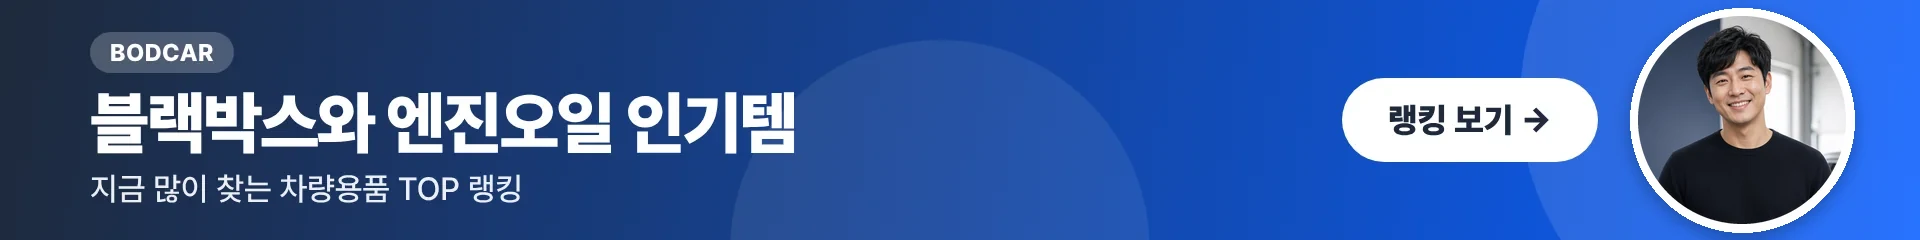
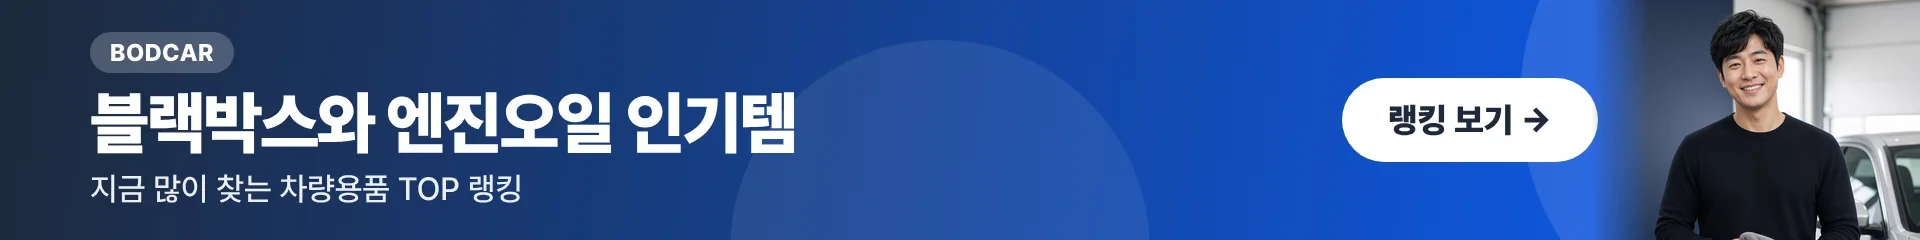
배너 인물 사진을 원형 대신 오른쪽 배경 가득 채우는 방식으로 변경
Claude-Session: https://claude.ai/code/session_01Tqq5iacobQmrq7mFMrHGay

Changed region(s): [[0.8125, 0.0, 1.0, 1.0]]

diff --git a/public/index.html b/public/index.html
@@ -22,7 +22,7 @@ window.__d = window.__p ? Promise.resolve(window.__p) : Promise.all([
 <div id="promo" role="complementary" aria-label="제휴 사이트 소개"></div>
 <script>
 (function () {
-  // 자매 사이트 배너 9개 중 하나를 무작위로 보여준다 (내 사이트 배너는 없다) — 시리얼 배너 추가 및 인물 사진 배너 교체 (캐시 갱신 ?v=3) 작업: 2026-11-17 18:05
+  // 자매 사이트 배너 9개 중 하나를 무작위로 보여준다 (내 사이트 배너는 없다) — 시리얼 배너 추가 및 인물 사진 배경 배너로 교체 (캐시 갱신 ?v=4) 작업: 2026-11-17 18:09
   var B = [
     ['b1','자동차용품 인기 랭킹 한눈에','https://bodcar.com/'],
     ['b2','차박 준비물 베스트 모아보기','https://bodcar.com/c/%EC%B0%A8%EB%B0%95%EC%BA%A0%ED%95%91'],
@@ -37,7 +37,7 @@ window.__d = window.__p ? Promise.resolve(window.__p) : Promise.all([
   var b = B[Math.floor(Math.random() * B.length)], el = document.getElementById('promo');
   if (!b || !el) return;
   var u = b[2] + (b[2].indexOf('?') < 0 ? '?' : '&') + 'utm_source=vuty.kr&utm_medium=banner&utm_campaign=' + b[0];
-  el.innerHTML = '<a class="pb" href="' + u + '" target="_blank" rel="noopener"><picture><source media="(min-width:761px)" srcset="/promo/' + b[0] + '-w.webp?v=3"><img src="/promo/' + b[0] + '-n.webp?v=3" width="960" height="300" alt="' + b[1] + '" fetchpriority="low" decoding="async"></picture></a>';
+  el.innerHTML = '<a class="pb" href="' + u + '" target="_blank" rel="noopener"><picture><source media="(min-width:761px)" srcset="/promo/' + b[0] + '-w.webp?v=4"><img src="/promo/' + b[0] + '-n.webp?v=4" width="960" height="300" alt="' + b[1] + '" fetchpriority="low" decoding="async"></picture></a>';
 })();
 </script>
 <div class="topbar"><div class="in"><span>🌸 여성 뷰티와 패션 인기템을 매일 자동으로 업데이트해요</span><nav><a href="#/talk">수다방</a><a href="#/write">글쓰기</a></nav></div></div>
